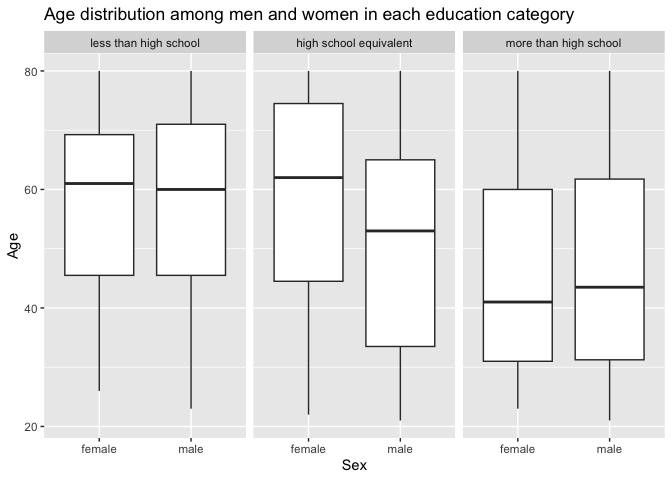
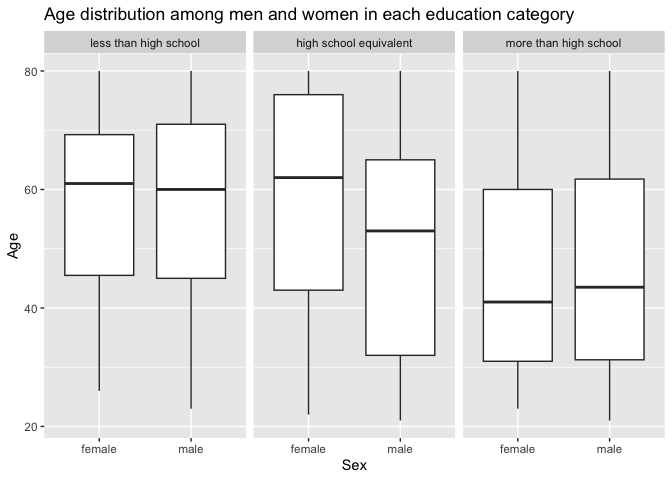
final commit! corrected errors in problem 3 & touched up problems 2 and 3

diff --git a/p8105_hw3_smy2122.md b/p8105_hw3_smy2122.md
@@ -63,6 +63,7 @@ instacart_df |>
   mutate(aisle = fct_reorder(aisle, n)) |>
   ggplot(aes(x = aisle, y = n, color = aisle)) +
   geom_point() +
+  scale_x_discrete(guide = guide_axis(angle = -90)) +
   labs(title = "Number of items ordered in each aisle") +
   labs(caption = "Among aisles with more than 10,000 items ordered")
 ```
@@ -148,7 +149,11 @@ brffs_df =
 ```
 
 The tables below show the states that were observed at 7 or more
-locations in 2002 and 2010.
+locations in 2002 and 2010. As shown in the first table below, the
+following states were observed at 7 or more locations in 2002:
+`PA, MA, NJ, CT, FL, and NC`. As shown in the second table below, the
+following states were observed at 7 or more locations in 2010:
+`FL, NJ, TX, CA, MD, NC, NE, WA, MA, NY, OH, CO, PA, and SC`.
 
 ``` r
 brffs_df |>
@@ -251,8 +256,8 @@ cleaning for the demographics data set, I will remove the unnecessary
 rows, set missing values, clean variable names, exclude participants
 under age 21, drop those with missing demographic data, encode sex and
 education as factors, and re-level education. Data cleaning for the
-accelerometer data set only needs cleaning variable names, as there are
-no unnecessary rows and no missing values.
+accelerometer data set needs cleaning variable names, as there are no
+unnecessary rows and no missing values, and pivoting longer.
 
 ``` r
 demographic_df =
@@ -284,7 +289,14 @@ demographic_df =
 
 accelerometer_df =
   read_csv("./data/nhanes_accel.csv") |>
-  janitor::clean_names()
+  janitor::clean_names() |>
+  pivot_longer(
+    min1:min1440,
+    names_to = "minute",
+    names_prefix = "min",
+    values_to = "activity"
+  ) |>
+  mutate(minute = as.numeric(minute))
 ```
 
 Now, I will merge the two data sets using an inner join to only show
@@ -292,14 +304,15 @@ participants in both data sets.
 
 ``` r
 merged_df =
-  inner_join(demographic_df, accelerometer_df)
+  inner_join(demographic_df, accelerometer_df, by = "seqn")
 ```
 
 Below is a table of the number of men and women in each education
 category.
 
 ``` r
-merged_df |>
+demographic_df |>
+  group_by(sex, education) |>
   count(sex, education) |>
   pivot_wider(
     names_from = "education",
@@ -314,7 +327,16 @@ merged_df |>
 | male   |                    27 |                     35 |                    56 |
 
 Below is a box plot of the age distributions for men and women in each
-education category. The box plot shows that
+education category. The box plot shows that male and female participants
+with a less than high school education were slightly older than male and
+female participants with a high school or equivalent education and
+significantly older than male and female participants with more than a
+high school education, as the average age of male and female
+participants with less than a high school education was 57.38. The box
+plot further shows that female participants were slightly older than
+male participants if the education level was less than high school or
+high school equivalent, but male participants were slightly older than
+female participants in the more than a high school education level.
 
 ``` r
 merged_df |>
@@ -330,31 +352,28 @@ merged_df |>
 
 ![](p8105_hw3_smy2122_files/figure-gfm/age%20distribution%20plot-1.png)<!-- -->
 
-Below is a three-panel plot of total activity over the day for men and
-women of each education level. The plot shows that total physical
-activity decreases most sharply for men and women with less than a high
-school education and least sharply for men and women with more than a
-high school education. Among men and women with a high school education
-or equivalent, total physical activity sharply dropped between ages
-60-63 but then sharply increased around ages 70-34, and a similar
-(although less strong) trend occurred for men but not women with more
-than a high school education. By age 80, females with more than a high
-school education had the highest total physical activity.
+Below is a plot of total activity over the day for men and women of each
+education level from ages 22 to 80. The plot shows that total physical
+activity decreases most sharply over time for men and women with less
+than a high school education and least sharply over time for men and
+women with more than a high school education. Plateaus were not
+consistent across education level: men and women with less than a high
+school equivalent had the highest total physical activity around age 24
+and then around age 59, whereas men and women with a high school or
+equivalent education had their highest total physical activity around
+age 39 and men and women had their highest total physical activity
+around age 22 and then age 45 for men and 60 for women. Gaps between
+physical activity among men and women were strongest among those with a
+high school or equivalent education.
 
 ``` r
 merged_df |>
-  group_by(seqn) |>
-  pivot_longer(
-    min1:min1440,
-    names_to = "minute",
-    values_to = "activity"
-  ) |>
-  mutate(total_activity = sum(activity)) |>
-  select(seqn, sex, age, bmi, education, total_activity) |>
-  ggplot(aes(x = age, y = total_activity)) +
+  group_by(seqn, sex, age, education) |>
+  summarize(total_activity = sum(activity)) |>
+  ggplot(aes(x = age, y = total_activity, color = sex)) +
   geom_point() +
   geom_smooth() +
-  facet_grid(sex ~ education) +
+  facet_grid(. ~ education) +
   labs(
     x = "Age",
     y = "Total physical activity over the day (measured by MIMS)",
@@ -378,15 +397,9 @@ all education levels seems highest in the evening.
 
 ``` r
 merged_df |>
-  pivot_longer(
-    min1:min1440,
-    names_to = "minute",
-    names_prefix = "min",
-    values_to = "activity"
-  ) |>
-  mutate(minute = as.numeric(minute)) |>
+  group_by(seqn) |>
   ggplot(aes(x = minute, y = activity, color = sex)) +
-  geom_line() +
+  geom_line(alpha = 0.1) +
   geom_smooth(aes(group = sex)) +
   facet_grid(. ~ education) +
   labs(
